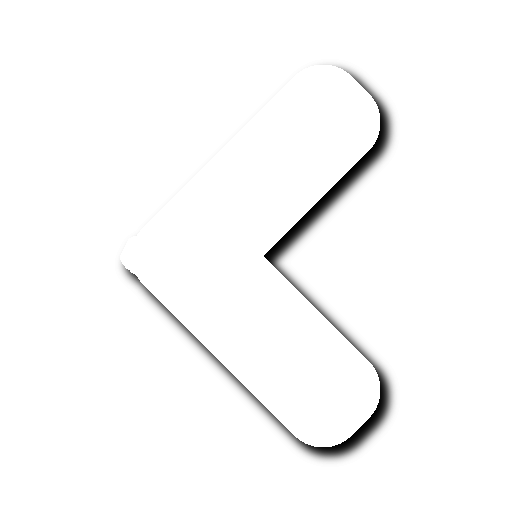
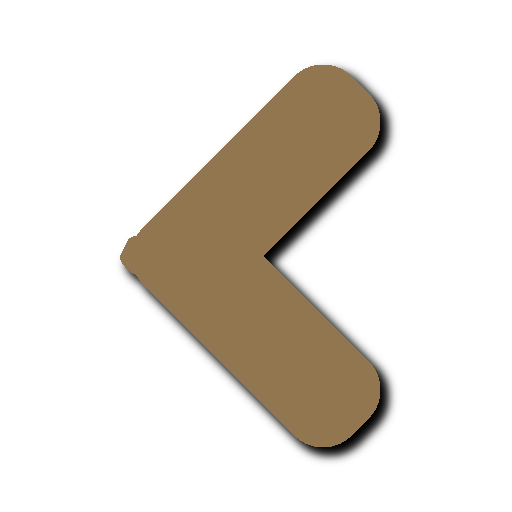
Final

Changed region(s): [[0.2188, 0.125, 0.75, 0.875]]

diff --git a/admincefo_juanjdavid/css/style.css b/admincefo_juanjdavid/css/style.css
@@ -129,9 +129,10 @@ table img{
 	display:inline-block;
 	margin:20px;
 	padding:10px;
-	
-	color:white;
-	text-shadow:1px 1px 1px black;
+	color:#927650;
+	font-weight: bold;
+	font-variant: small-caps;
+	text-shadow: 1px 1px 1px black;
 }
 .izquierda{
 	float: left;
@@ -254,12 +255,24 @@ table{
 .det{
 	font-variant:small-caps;
 	display:inline-block;
-	width:400px;
-	
+	width:200px;
 	margin:5px 50px 5px 100px;
+}
+.det1{
+	font-variant:small-caps;
+	margin:5px 50px 5px 100px;
+}
+.bien{
+	margin-left:50px;
+	margin-right:50px;
+	margin-bottom:50px;
 }
 h2.det{
 	text-shadow:1px 1px 1px black;
+}
+.marg{
+	margin-left: 90px;
+	display: inline-block;
 }
 .alilef{
 	margin-top:30px;
@@ -353,12 +366,12 @@ h2.det{
 .i{
 	position:absolute;
 	bottom:24px;
-	left:42%;
+	left:40%;
 }
 .d{
 	position:absolute;
 	bottom:24px;
-	right:42%;
+	right:40%;
 }
 .pagpeque img{
 	height:30px;

diff --git a/admincefo_juanjdavid/application/views/usuario/detall.php b/admincefo_juanjdavid/application/views/usuario/detall.php
@@ -1,5 +1,6 @@
 <div class="cont">
-	<h2>Detalls alumnes</h2>
+	<h2 class="det1">Detalls alumnes</h2>
+	<br>
 	<label class="det">Nom complert:</label><span>	<?php echo $alumne[0]->nom; echo" ". $alumne[0]->cognom1; echo" ". $alumne[0]->cognom2 ;?></span><br/>
 	<label class="det">DNI:</label><span>	<?php echo $alumne[0]->dni;?></span><br/>
 	<label class="det">Estudis</label>	<span>
@@ -23,7 +24,7 @@
 	<label class="det">Email:</label>	<span><?php echo $alumne[0]->email;?></span><br/>
 	<a class="botoncin bo1 bot2" onclick='window.history.back()'>Tornar enrere</a><br/>
 	
-	<form  method="post" action="<?php echo base_url()?>index.php/preinscripcions/admi">
+	<form class="marg" method="post" action="<?php echo base_url()?>index.php/preinscripcions/admi">
 		<select class="botoncin bo3" name="pre">
 			<option value="">Selecciona curs</option>
 			<?php 
@@ -37,7 +38,7 @@
 			<input type="hidden" value="<?php echo $alumne[0]->id?>"  name="idp">
 			<input type="submit" class="botoncin bo3" value="Preinscriure">
 	</form>
-	<form  method="post" action="<?php echo base_url()?>index.php/subscripcions/admi">
+	<form class="marg" method="post" action="<?php echo base_url()?>index.php/subscripcions/admi">
 		<select class="botoncin bo4" name="subs">
 			<option value="">Selecciona Area </option>
 			<?php 

diff --git a/admincefo_juanjdavid/application/views/cursos/detall.php b/admincefo_juanjdavid/application/views/cursos/detall.php
@@ -1,6 +1,6 @@
 
 <div class="cont">
-			<h2 class="det"><?php echo $curso[0]->nom;?></h2><br/><br/><br/>
+			<h2 class="det1"><?php echo $curso[0]->nom;?></h2><br/><br/><br/>
 		<table >
 			<tr>
 				<td><label class="det">Codi del curs:</label></td><td><?php echo $curso[0]->codi;?><td/>

diff --git a/admincefo_juanjdavid/application/views/arees/veure.php b/admincefo_juanjdavid/application/views/arees/veure.php
@@ -2,7 +2,7 @@
 
 		<div>
 			<h2>Arees Formatives </h2>
-			
+			<br/>
 			<a href="<?php echo base_url()?>/index.php/arees/crear" class="distribute bo3 botoncin"> Crear nou Area formativa</a>
 			<table class="most auto">
 				<tr>
